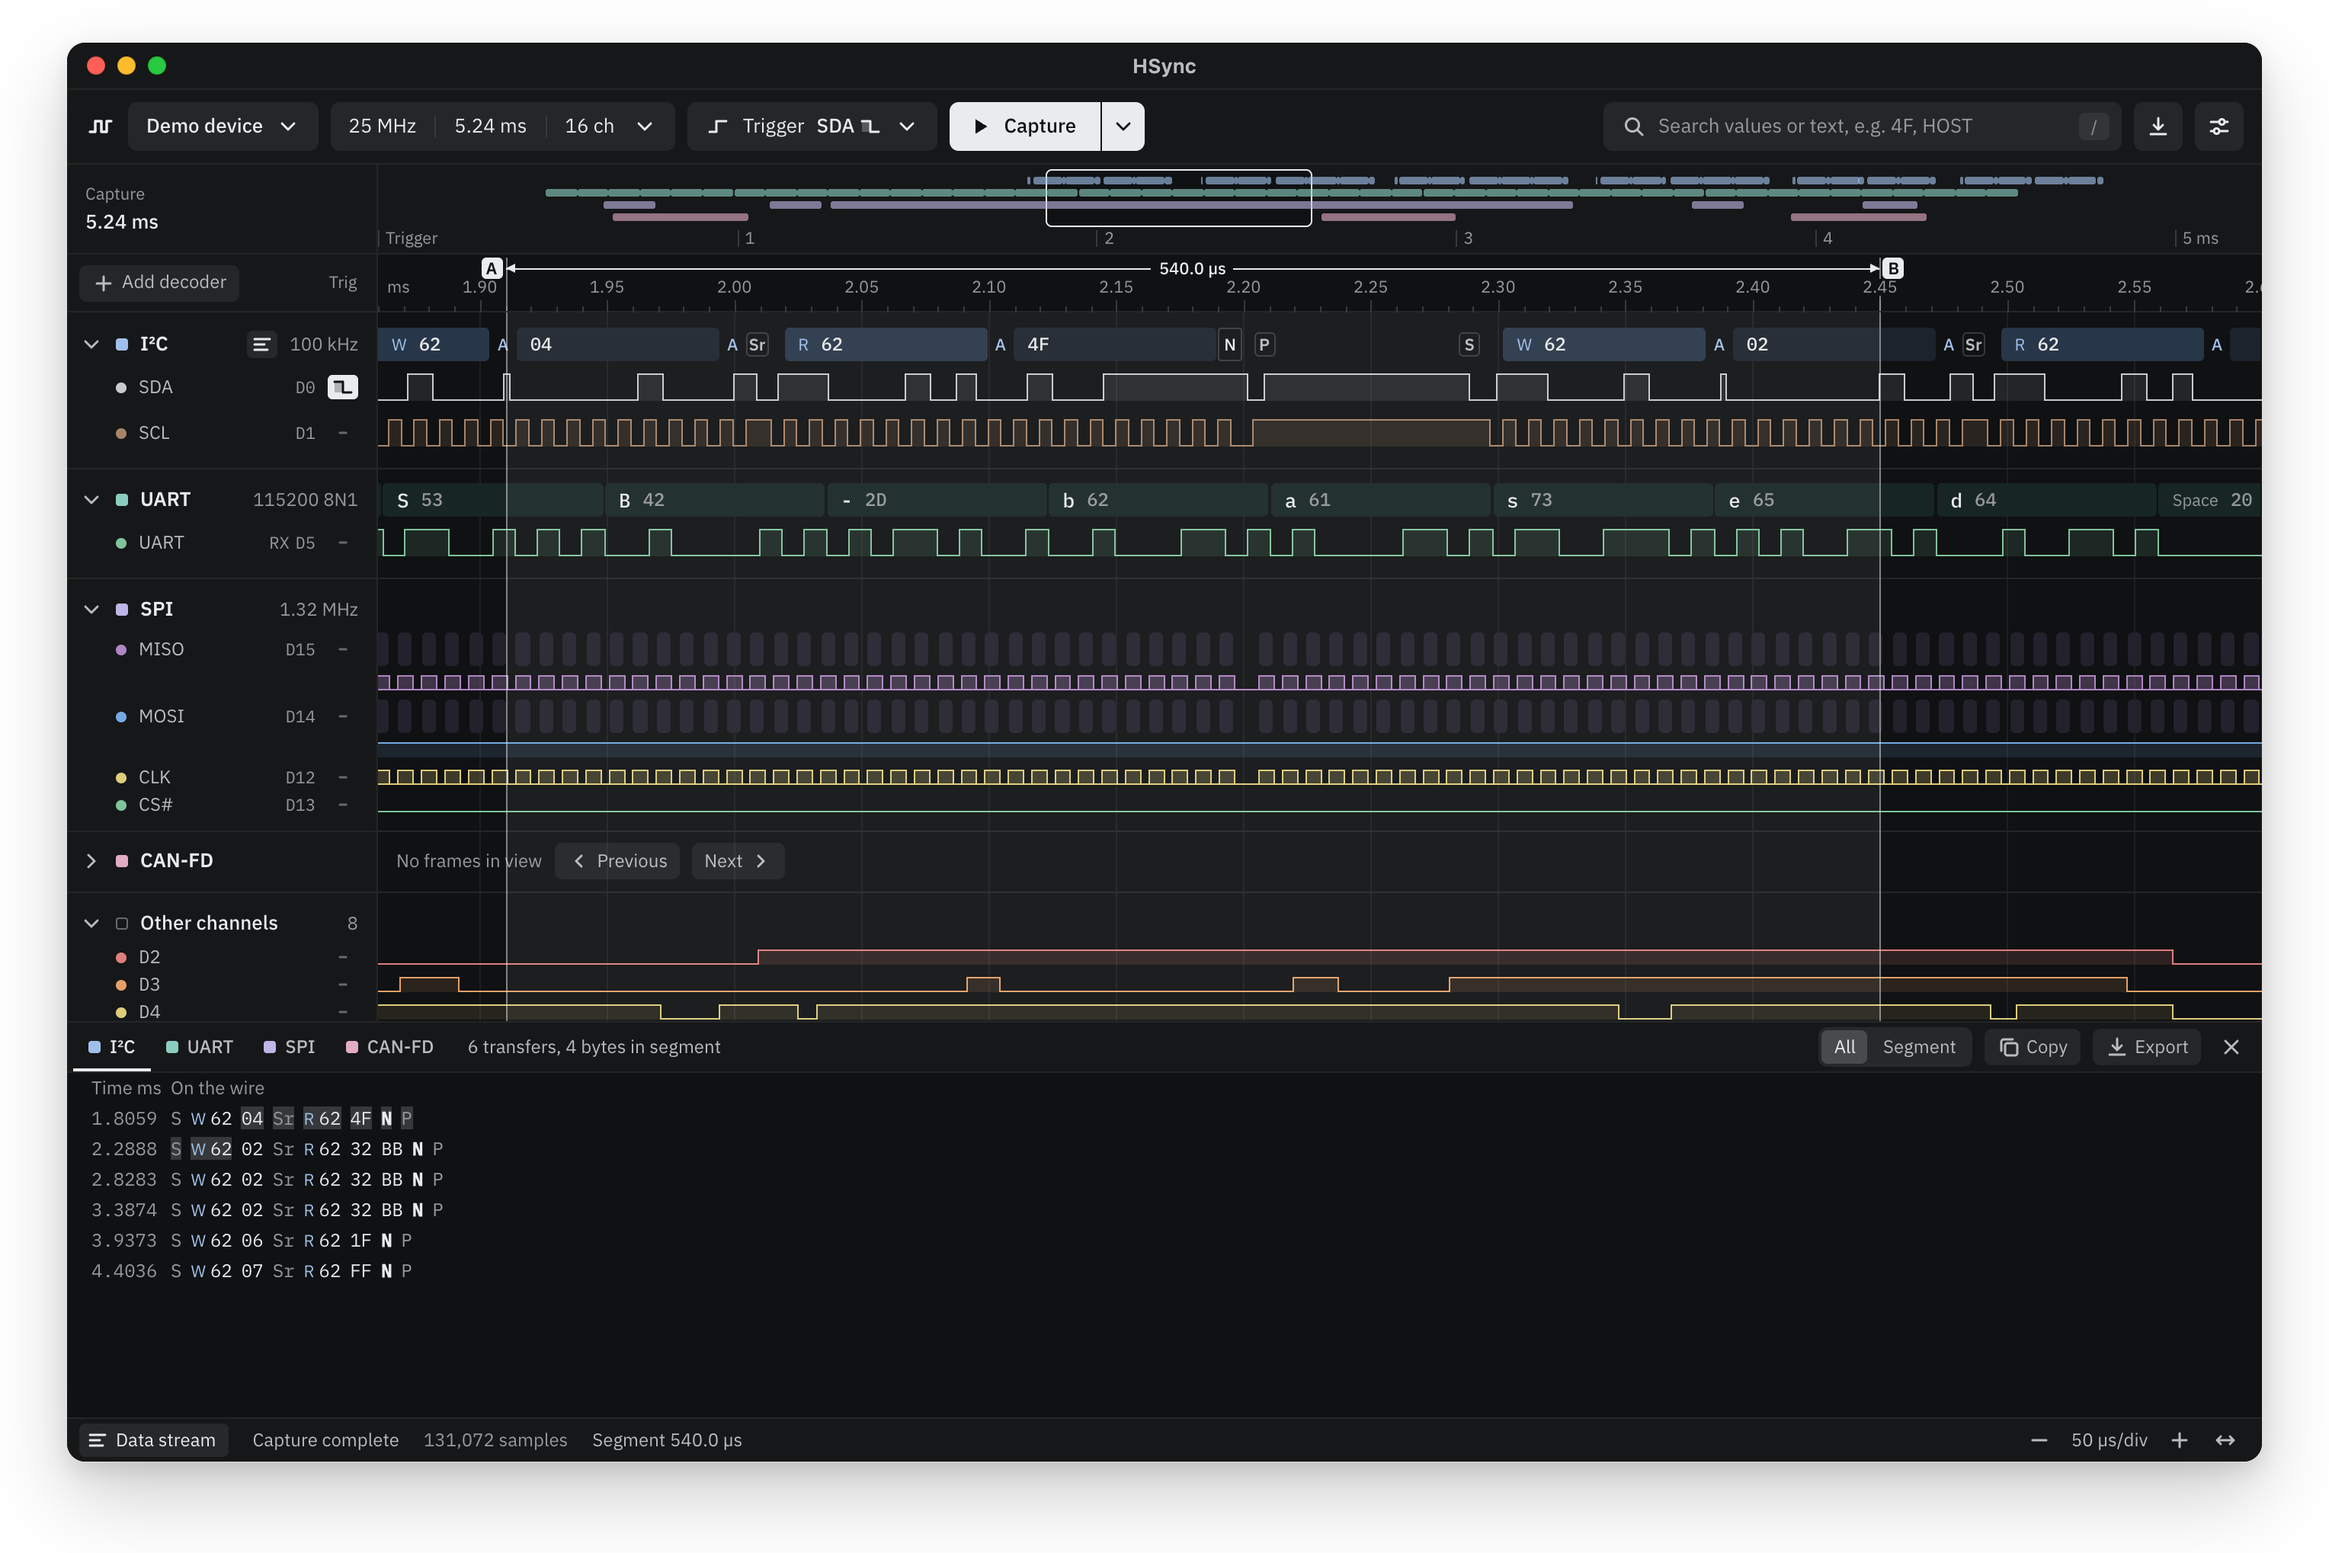
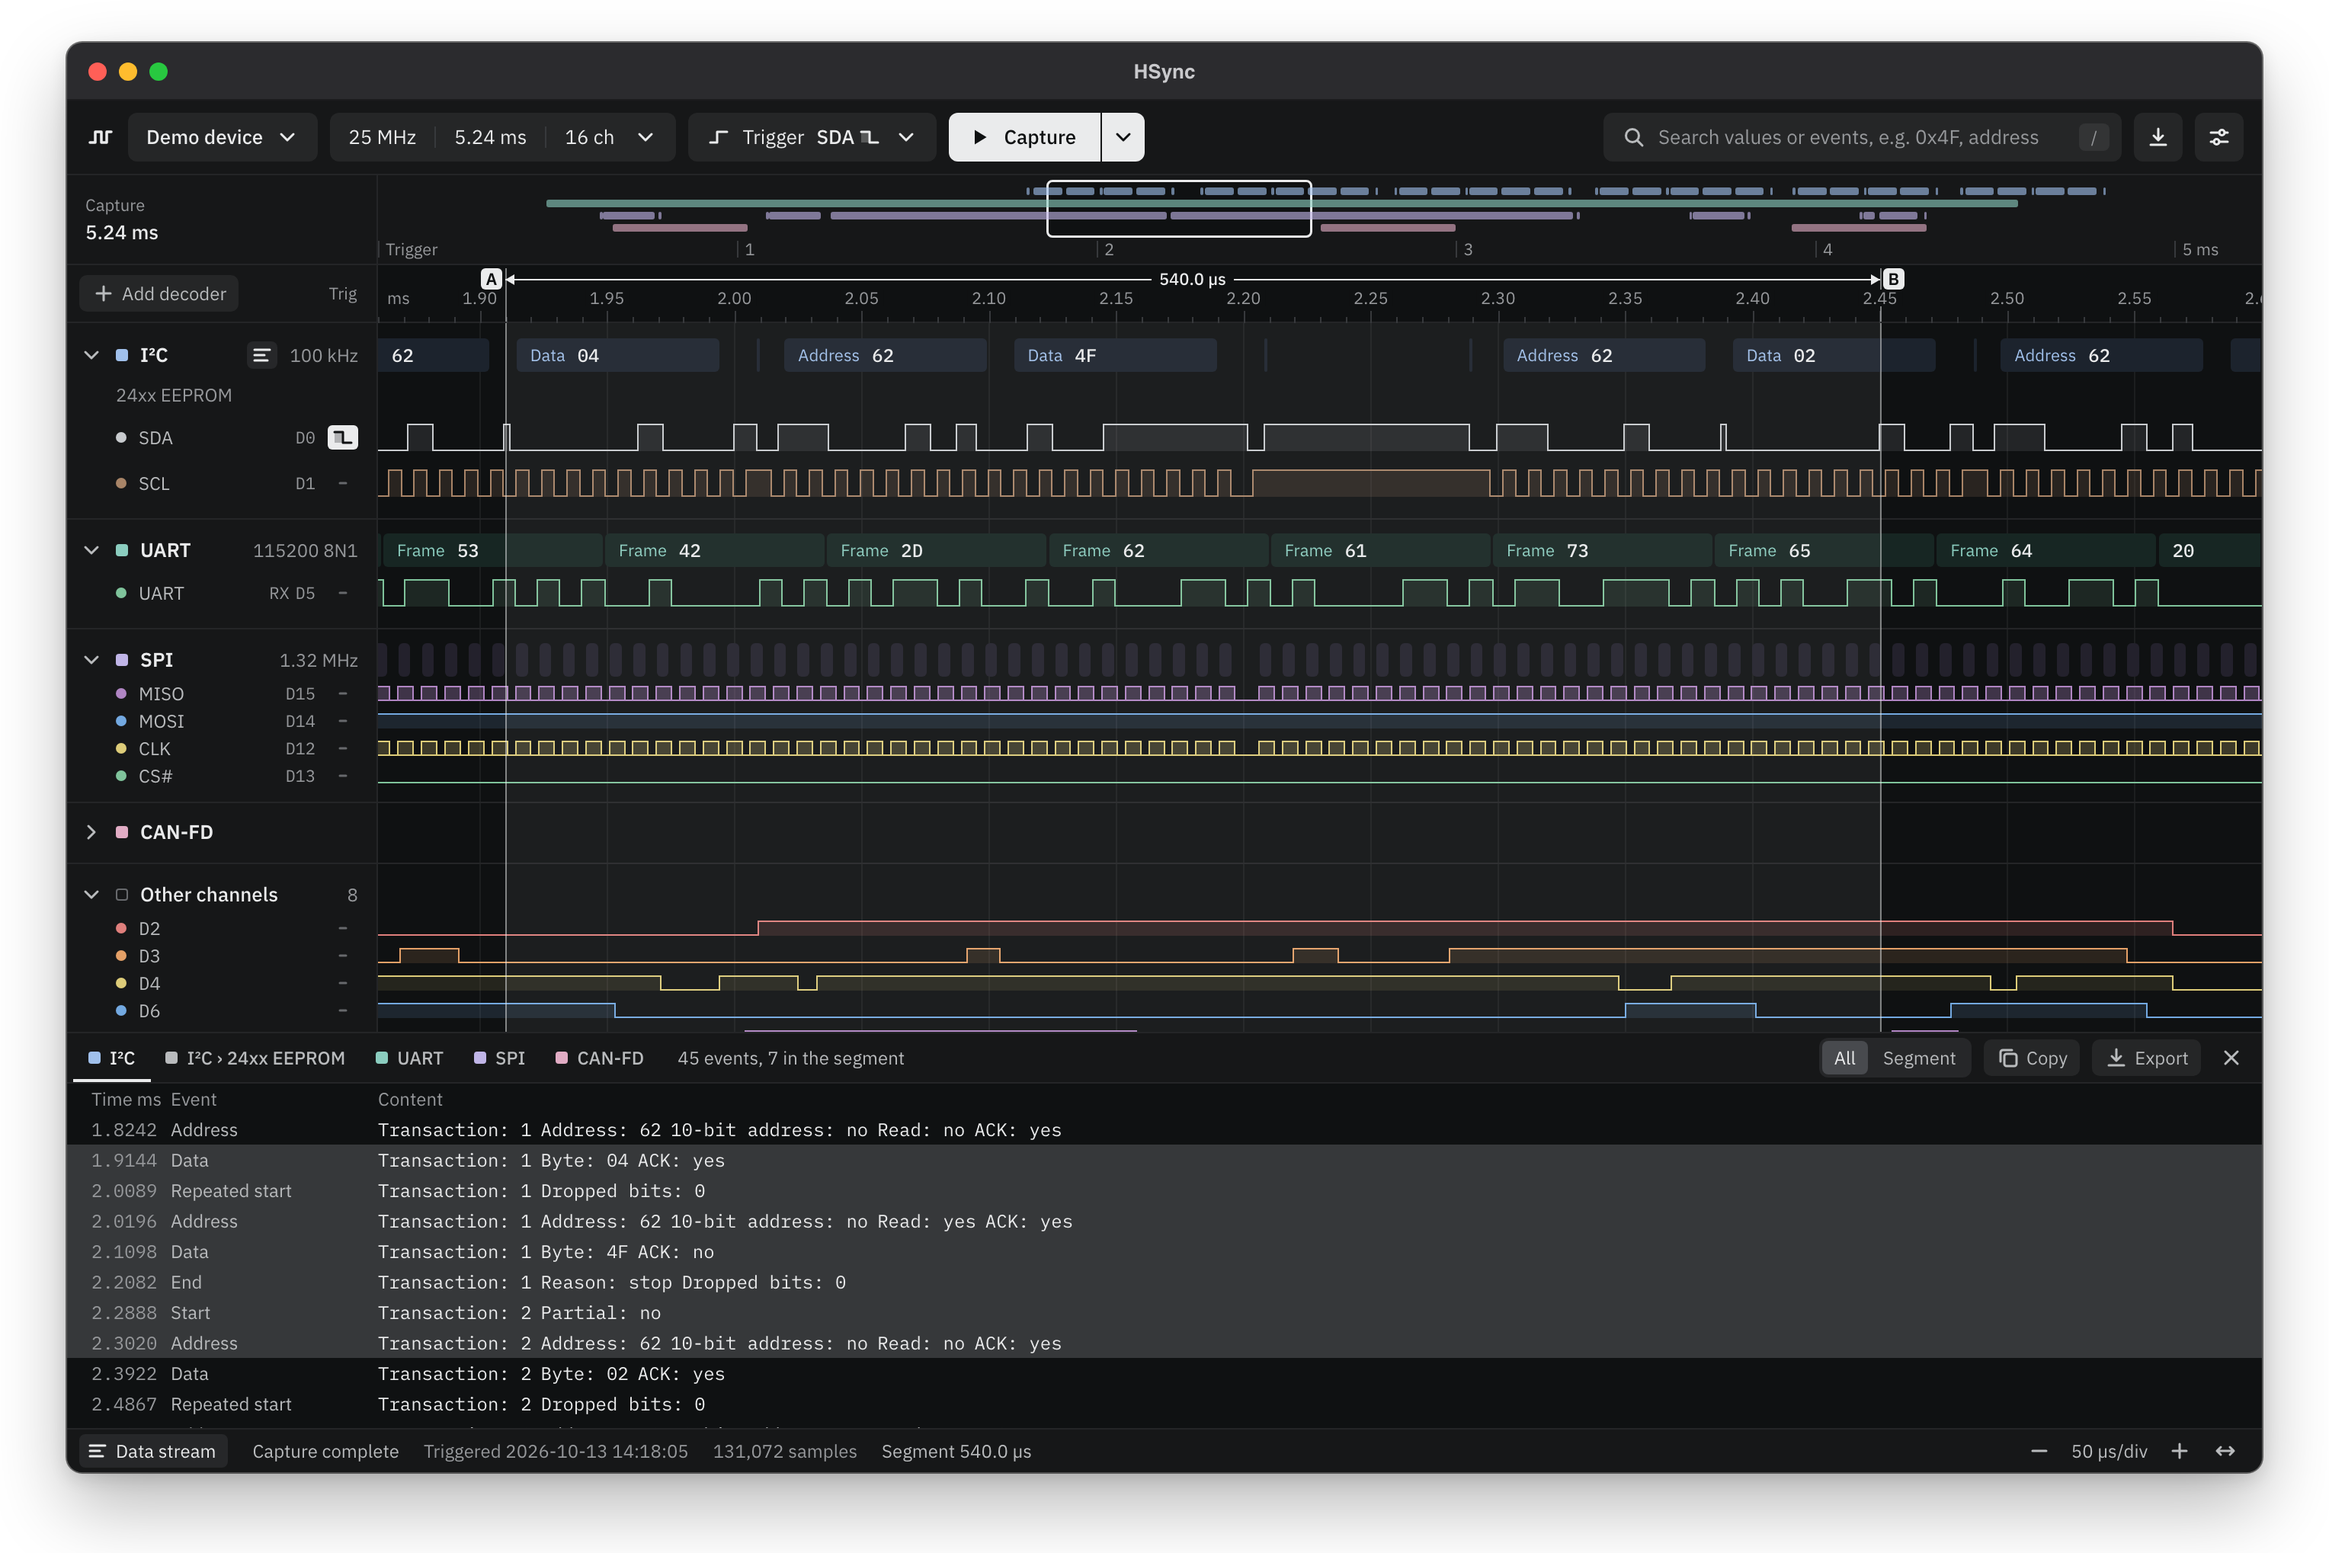
docs(repo): retake the hero and search screenshots for uiharu's decode blocks
The hero and search screenshots of both READMEs show the generic decode blocks, the
stacked EEPROM's lane and the data stream's event rows; the search now finds a value
(0x4F) rather than text across SPI words. The trigger and measurement screenshots need a
pointer and wait for a session with a browser.

diff --git a/README.zh-CN.md b/README.zh-CN.md
@@ -56,7 +56,7 @@ HSync 是不绑定任何厂商的逻辑分析仪桌面上位机。它支持 Drea
 - **数值可用十六进制、十进制、八进制、二进制或 ASCII 显示**，每个解码器各自选择。
 - **数据流**列出一个解码器的全部结果：点一行跳到波形上的对应位置，也可以复制列表或导出为 CSV、文本。
 
-![搜索 HOST：对应的字节 48 4F 53 54 在 SPI 的 MISO 解码与数据流中都被高亮](assets/screenshots/zh-CN/search.webp)
+![搜索 0x4F：含有它的 I²C 数据字节在时间线与数据流中都被高亮](assets/screenshots/zh-CN/search.webp)
 
 ### 测量与搜索
 

diff --git a/README.md b/README.md
@@ -56,7 +56,7 @@ No hardware at hand? HSync opens its built-in **Demo device**, which plays back 
 - **Values in hex, decimal, octal, binary or ASCII**, chosen per decoder.
 - **The data stream** lists everything a decoder found. Click a row to jump to it on the waveform; copy the list or export it as CSV or text.
 
-![A search for HOST: its bytes, 48 4F 53 54, highlighted on the SPI MISO lane and in the data stream](assets/screenshots/en-US/search.webp)
+![A search for 0x4F: the I²C data byte that holds it, highlighted on the timeline and in the data stream](assets/screenshots/en-US/search.webp)
 
 ### Measure and search
 
